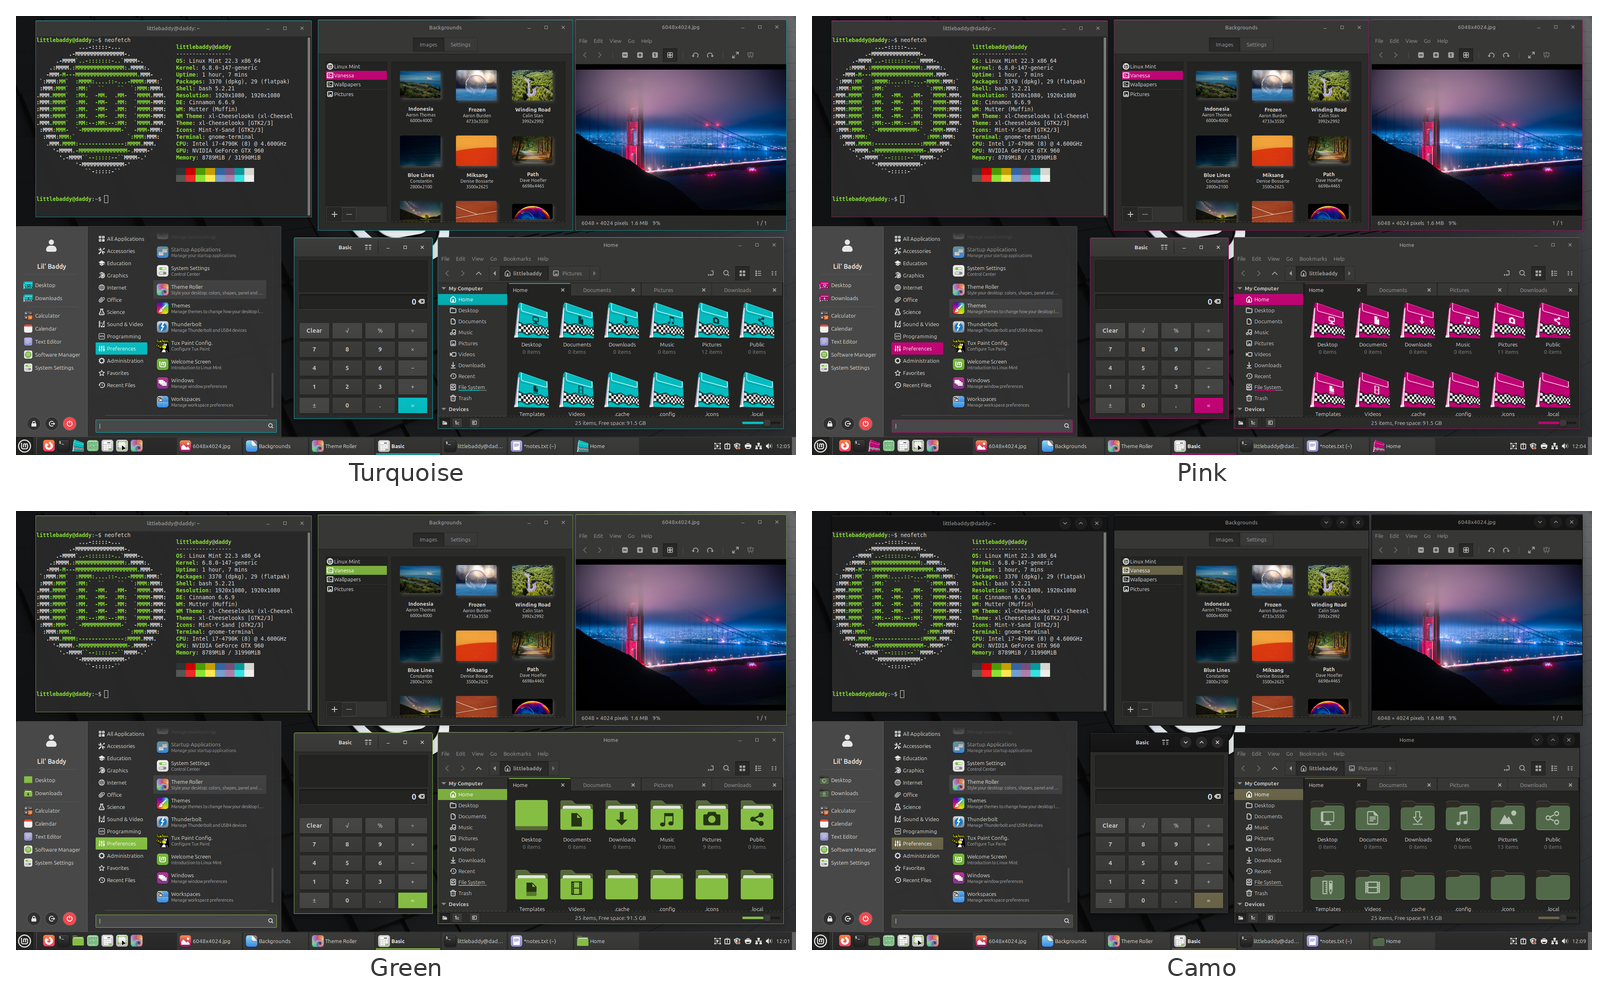
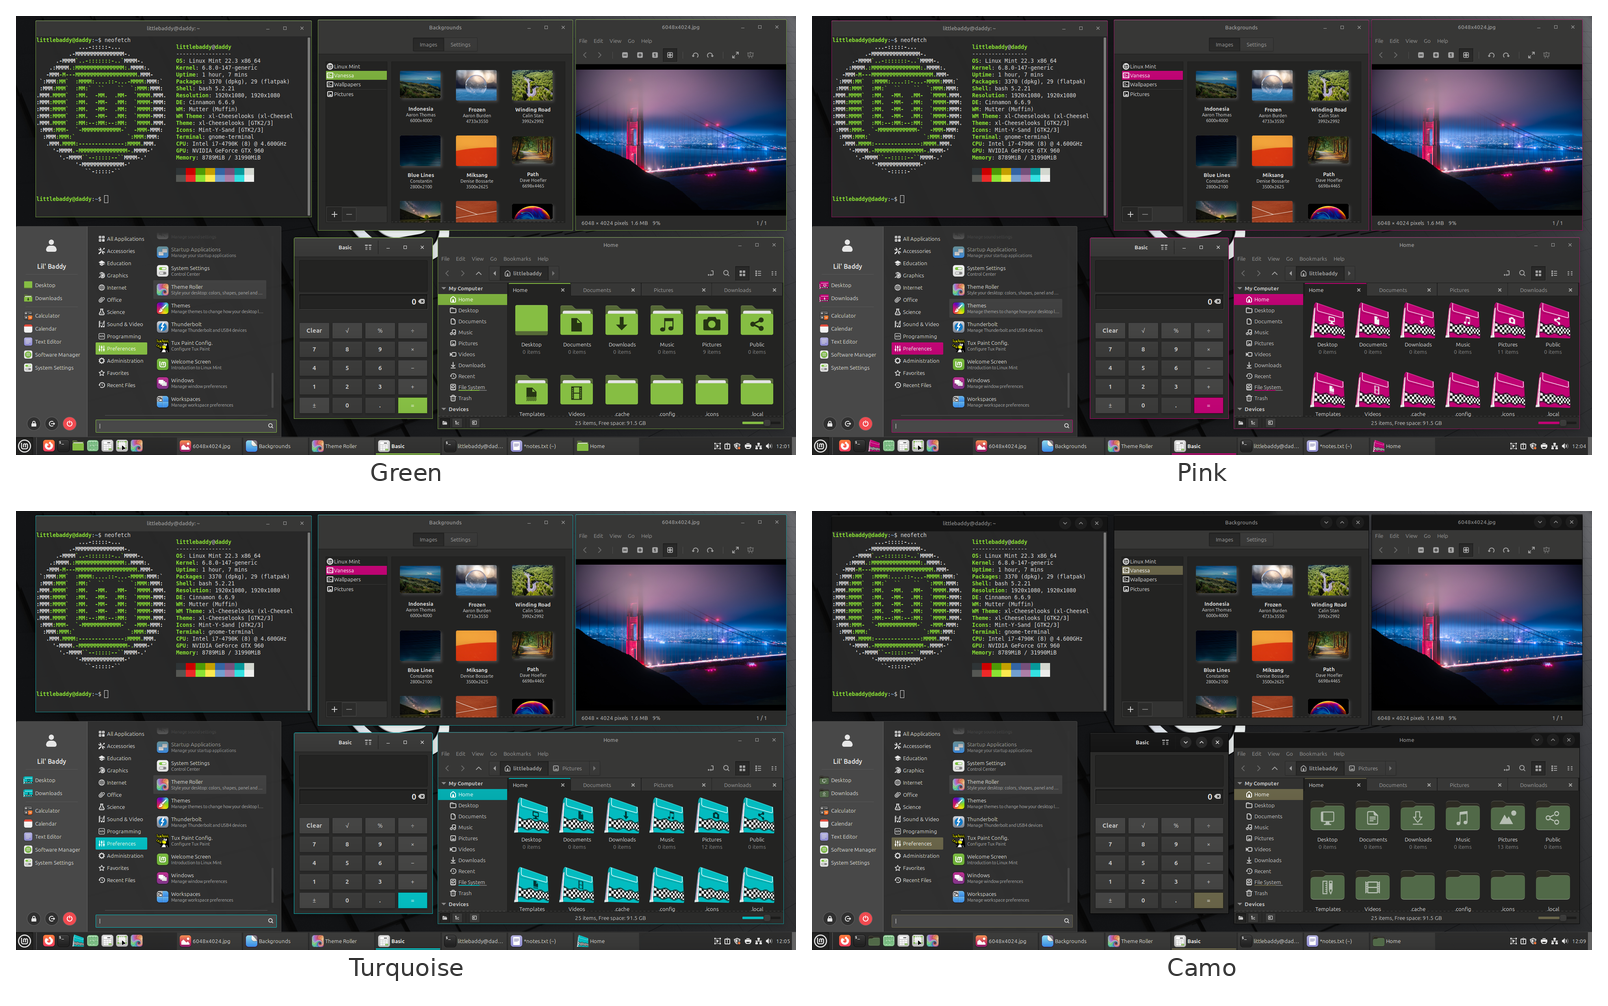
A new user starts from the real xl-Cheeselooks theme; landing page: tip link, captions, accent order
- With no settings yet, Theme Roller loads the default theme's file, not the
  bare defaults (a new user's first Apply gave a white terminal, a different
  panel and title bar)
- Landing page: download on its own line, a tip link, Wesley Hayslip's captions
  for Global and Style, the two greens apart

Claude-Session: https://claude.ai/code/session_01QJb8YXC7nGroPMRszx1HQQ

diff --git a/cheeselooks/settings.py b/cheeselooks/settings.py
@@ -274,12 +274,24 @@ def keep_per_user(new: dict, current: dict) -> dict:
 
 def load(path: Path) -> dict:
     if not path.exists():
-        return copy.deepcopy(DEFAULTS)
+        return first_run()
     try:
         data = json.loads(path.read_text(encoding="utf-8"))
     except json.JSONDecodeError as exc:
         raise SettingsError([f"{path} is not valid JSON: {exc}"]) from exc
     return from_dict(data)
+
+
+def first_run() -> dict:
+    """No settings saved yet (a new user): the default theme as its file has it.
+    DEFAULTS alone is not that theme (xl_cheese, 23 Nov: a new user's first
+    Apply of "xl-Cheeselooks" gave a white terminal, a different panel and title
+    bar...: the bare defaults, not the theme; picking it again fixed it)."""
+    from . import themes          # here: themes imports this module
+    try:
+        return themes.load(DEFAULTS["theme"])
+    except Exception:             # the theme file missing or unreadable: the bare defaults
+        return copy.deepcopy(DEFAULTS)
 
 
 def save(settings: dict, path: Path) -> None:

diff --git a/tests/test_generator.py b/tests/test_generator.py
@@ -1270,6 +1270,14 @@ class RenderAndInstallTests(unittest.TestCase):
             self.assertEqual(data["style"]["name"], new)
             self.assertEqual(cli._load_style(new, None).name, new)
 
+    def test_a_new_user_starts_from_the_theme_file(self):
+        # no settings yet: the default theme as its file has it, not the bare
+        # defaults (xl_cheese: the first Apply gave a white terminal)
+        missing = Path(tempfile.mkdtemp()) / "settings.json"
+        first = settings.load(missing)
+        self.assertEqual(first, themes.load(settings.DEFAULTS["theme"]))
+        self.assertEqual((first["terminal"]["separate_colors"], first["terminal"]["bg"]), (True, "#2B2B2B"))
+
     def test_first_apply_and_revert_for_a_new_user(self):
         # xl_cheese's fresh-user test, 23 Nov: on Mint-Y, the first Apply failed
         # (no last-good folder for the panel height); Revert didn't bring Mint-Y

diff --git a/README.md b/README.md
@@ -8,9 +8,13 @@
 
 <p align="center">
   <a href="https://github.com/xlcheese/theme-roller/releases/latest"><b>⬇&nbsp;Download for Linux&nbsp;Mint&nbsp;22&nbsp;(.deb)</b></a>
-  &nbsp;·&nbsp; <a href="#installing">How to install</a>
+</p>
+
+<p align="center">
+  <a href="#installing">How to install</a>
   &nbsp;·&nbsp; <a href="#customization-options">What you can change</a>
   &nbsp;·&nbsp; Free and open source
+  &nbsp;·&nbsp; <a href="https://www.paypal.com/donate/?hosted_button_id=SDDYDENKXPCWN">Like Theme Roller? Leave a tip!&nbsp;☕</a>
 </p>
 
 <p align="center">
@@ -31,7 +35,7 @@ Theme Roller brings it back. Choose your colors, turn some knobs and dials, then
 Change one color and the whole desktop follows: the panel, the menu, selections, buttons, window borders, even the folders in your file manager. Here is xl-Cheeselooks Dark with nothing changed but its accent:
 
 <p align="center">
-  <img src="docs/images/accents.png" alt="The same desktop in xl-Cheeselooks Dark four times, with a turquoise, pink, green and camo accent">
+  <img src="docs/images/accents.png" alt="The same desktop in xl-Cheeselooks Dark four times, with a green, pink, turquoise and camo accent">
 </p>
 
 And some of the themes that come with it, light and dark:
@@ -64,8 +68,8 @@ Everything shows in a live preview first. Nothing changes on your desktop until 
 
 <table>
   <tr>
-    <td><img src="docs/images/app-xl-cheeselooks.png" alt="The Global tab in xl-Cheeselooks"><br><b>Global</b>, in xl-Cheeselooks: three colors, then the shape of everything.</td>
-    <td><img src="docs/images/app-xl-cheeselooks-dark.png" alt="The Style tab in xl-Cheeselooks Dark"><br><b>Style</b>, in xl-Cheeselooks Dark: how things are drawn, and how deep.</td>
+    <td><img src="docs/images/app-xl-cheeselooks.png" alt="The Global tab in xl-Cheeselooks"><br><b>Global</b>, in xl-Cheeselooks: three color options with sliders to adjust the overall look.</td>
+    <td><img src="docs/images/app-xl-cheeselooks-dark.png" alt="The Style tab in xl-Cheeselooks Dark"><br><b>Style</b>, in xl-Cheeselooks Dark: displays a list of style sheets which define details of how widgets, such as buttons, are drawn.</td>
   </tr>
   <tr>
     <td><img src="docs/images/app-xl-gummy.png" alt="The Window Borders tab in xl-Gummy"><br><b>Window Borders</b>, in xl-Gummy: title bars, borders and window buttons.</td>

diff --git a/docs/design-spec.md b/docs/design-spec.md
@@ -740,3 +740,5 @@ Built-in themes (`data/themes/NN-*.json`, listed in file-name order, so two-digi
 - App icon edge (xl_cheese, 23 Nov: on the panel the swirl ran into it): the SVG has a thin dark outer and light inner line; at 16-64px that's under a pixel, so tools/make_icon_sizes.py renders each size with a crisp 1px edge (data/icons/app/<size>.png), installed in hicolor beside the 256px PNG and the SVG.
 
 - Fresh-user fixes (xl_cheese's new account and his kid's computer, 23 Nov): Apply is active whenever the desktop isn't on our theme (first open, after Revert to Mint-Y, another theme picked in Mint's settings; re-checked when the window gets focus), not only when a setting changed. The first Apply no longer fails saving the panel height (last-good created first). Apply remembers the desktop's own theme settings (and icon theme) when it switches to ours (last-good/desktop.json); Revert then puts those back and takes our colors out of apps, instead of restoring an earlier Theme Roller theme. Revert from one of ours to another restarts Cinnamon when the window borders differ (dark title bars stayed, glyphs went missing). theme-roller revert does the same as the app's button.
+
+- A new user starts from the default theme's file (xl_cheese, 23 Nov: the first Apply of "xl-Cheeselooks" gave a white terminal): settings.load with no settings file returns themes.load(DEFAULTS["theme"]) (settings.first_run), not DEFAULTS, which differs from the theme file in about 25 settings (terminal colors, panel, title bar, Details). Picking the theme again had loaded the file, which is why switching away and back fixed it.
